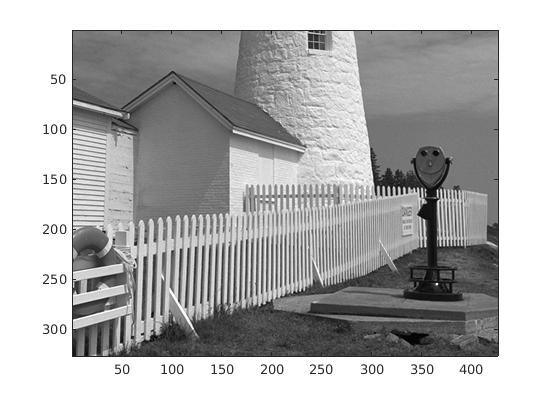
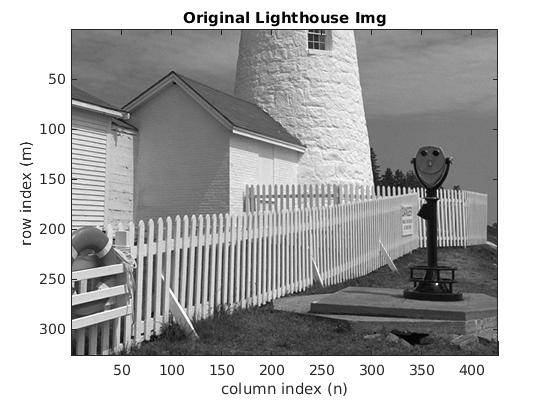
added axes to plots in pics

diff --git a/src/code.m b/src/code.m
@@ -12,6 +12,14 @@ whos    % outputs ww and more info on its size etc
 % if we used "who" instead of "whos" it will just list all active var names
 who
 
+% shows the original lighthouse img
+show_img(ww)
+title('Original Lighthouse Img')
+xlabel('column index (n)')
+ylabel('row index (m)')
+screen2jpeg('lighthouse.jpg')
+
+
 % for indexing ":" usually means all indices if by itself. Syntax for range of
 % vals. 
 % creating a row vector holding all the pixels in the 200th row
@@ -23,8 +31,10 @@ ww200 = ww(200,:);
 % finding where the 200th row crosses the fence
 % the following will plot the connected plot of the sampled pixel values
 plot(ww200)
-
-
+title('Values of 1 line of horizontal pixels in lighthouse')
+xlabel('vector index')
+ylabel('grayscale intensity value')
+screen2jpeg('show_ww.jpg')
 
 % Warm up 2.1
 %%%%%%%%%%%%%%%%%%%%%%%%%%%%%%%%%%%%%%%%%%%%%%%%%%%%%%%%%%%%%%%%%%%%%%%%%%%%%%%%%%%%%%%
@@ -36,7 +46,21 @@ xpix = ones(256,1) * cos(2 * pi * (0:255) / 16);
 % arbitrarily.
 twne = xpix(1,1:17);
 plot(twne)
+title('Plot of values for one row vector of xpix')
+xlabel('1 <= n <= 17 (truncated set, 1 period + 1 value)')
+ylabel('cosine values')
+
 show_img(xpix) % zoom in to see the pixel colors
+title('Image of xpix, stack of cosines matrix')
+xlabel('column index (n)')
+ylabel('row index (m)')
+
+xpix = xpix';
+show_img(xpix)
+title('Transpose of xpix img')
+xlabel('row index (m)')
+ylabel('column index (n)')
+screen2jpeg('xpix_transpose.jpg')
 
 % twne will have 1 period of values, plus one extra value to verify that we
 % indeed cycle back to the starting value.
@@ -46,7 +70,11 @@ show_img(xpix) % zoom in to see the pixel colors
 % 400 / 80 = 5 => use 80 as your period to get 5 periods in a 400px span
 ypix = ones(400,1) * cos(2 * pi * (0:399) / 80);
 ypix = ypix'; % transpose of vert lines gives horizontal lines
+
 show_img(ypix);
+title('400x400 horizontal band image')
+xlabel('column index (n)')
+ylabel('row index (m)')
 
 
 % Warm up 2.3
@@ -54,6 +82,12 @@ show_img(ypix);
 % downsampling
 wp = ww(1:2:end,1:2:end);
 show_img(wp)
+title('p=2 Down Sampled Lighthouse')
+xlabel('column index (n)')
+ylabel('row index (m)')
+screen2jpeg('downsample2.jpg')
+
+down_size = size(wp);
 
 % Lab 3.2
 %%%%%%%%%%%%%%%%%%%%%%%%%%%%%%%%%%%%%%%%%%%%%%%%%%%%%%%%%%%%%%%%%%%%%%%%%%%
